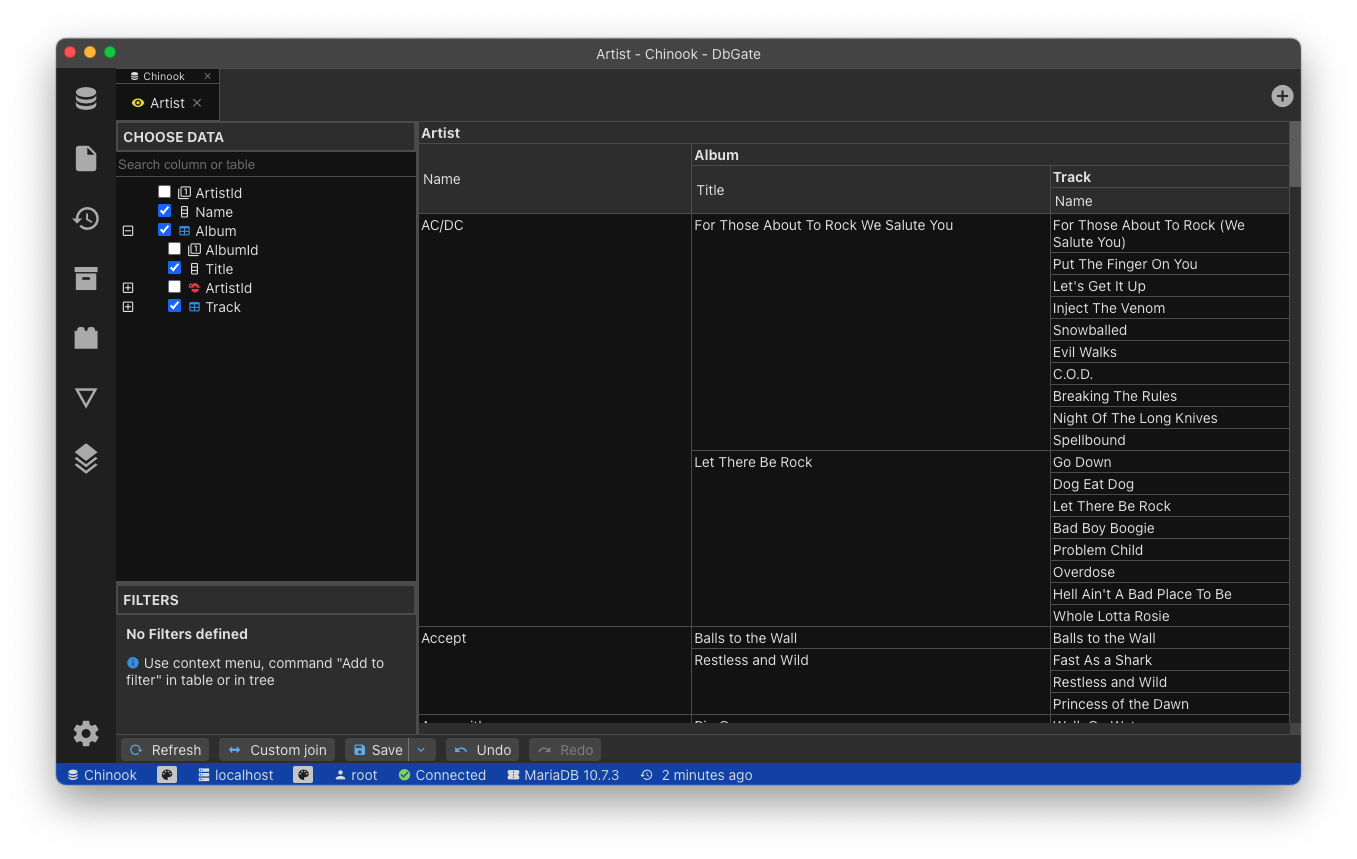
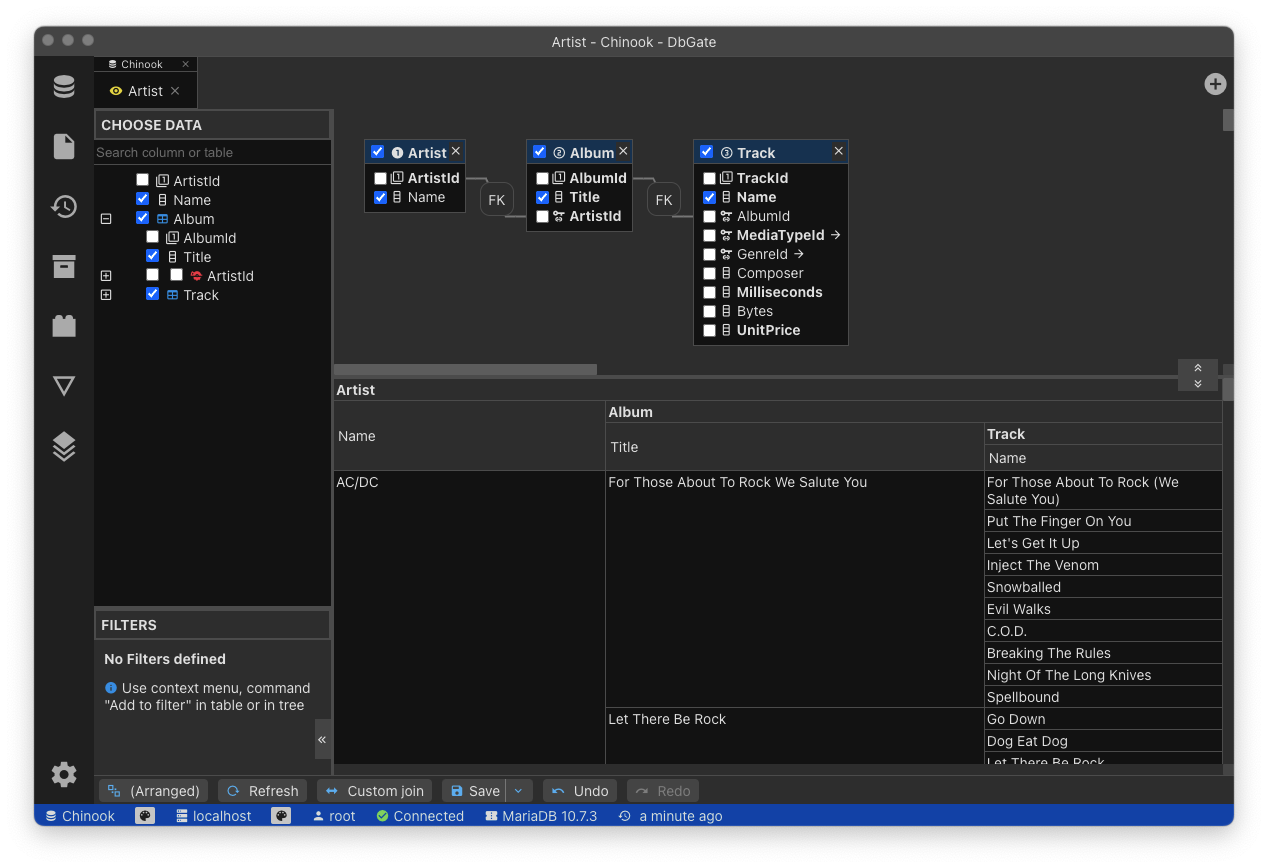
perspective updates

diff --git a/_docs/perspectives.md b/_docs/perspectives.md
@@ -7,7 +7,7 @@ hide_hero: true
 ---
 
 # Perspectives
-Perspective is readonly view of complex nested data. It resembles reports, but perspectives are created simply by adding data to view, there is nothing like complex report designer.
+Perspective is readonly view of complex nested data. It resembles reports, but perspectives are created simply by adding data to view. You could use perspective desigher, which allows you to join data following other relations than foreign keys.
 
 Perspectives can easily join data together, and show groups.
 
@@ -36,6 +36,10 @@ As you could see, there are lot of Genre rows without aby track matching search 
 <img src='/assets/docs/parentrows2.png' />
 
 # Define custom joins
-Perspectives works very well with foreign keys. But also when you have DB without foreign keys, you could use this feature. It is possible to define custom join with any condition. You could even define custom join to other database (which could be on different DB server, even with different underlying database engine). 
+Perspectives works very well with foreign keys. But also when you have DB without foreign keys, you could use this feature. It is possible to define custom join with any condition. You could even define custom join to other database (which could be on different DB server, even with different underlying database engine).
 
 <img src='/assets/docs/customjoin.png' />
+
+You could also drag &amp; drop columns to create join relation.
+
+<img src='/assets/docs/customjoin2.png' />

diff --git a/_posts/2022-08-08-5.1.1.md b/_posts/2022-08-08-5.1.1.md
@@ -1,0 +1,28 @@
+---
+layout: post
+title: Version 5.1.1 - Perspective designer
+categories: development
+date:   2022-09-05 16:00:00
+---
+
+Although 5.1.1 is marked as minor version release, it brings very important change - perspectives (added in last version) have now a new designer. It look similar like query designer, but it has not query designer constraints - as the result is not single flat query, but hiearchical perspective view.
+
+The designer is nice, when using perspectives on database with foreign keys. But it becomes a must, when using on DB without foreign keys, or when using perspective between different databases.
+
+Please use [docs](https://dbgate.org/docs/perspectives.html) for further details.
+
+<img src='/assets/screenshots/perspective1.png' />
+
+## Support us
+DbGate is an MIT-licensed open-source project. Great thanks to sponsors. Please, consider [supporting us](https://github.com/sponsors/dbgate)!
+
+## All changes from 5.1.1 release
+- ADDED: Perspective designer
+- FIXED: NULL,NOT NULL filter datatime columns #356
+- FIXED: Recognize computed columns on SQL server #354
+- ADDED: Hotkey for clear filter #352
+- FIXED: Change column type on Postgres #350
+- ADDED: Ability to open qdesign file #349
+- ADDED: Custom editor font size #345
+- ADDED: Ability to open perspective files
+

diff --git a/_posts/2022-08-08-5.1.0.md b/_posts/2022-08-08-5.1.0.md
@@ -14,7 +14,7 @@ Please use [docs](https://dbgate.org/docs/perspectives.html) for further details
 <img src='/assets/screenshots/perspective1.png' />
 
 ## Support us
-Nest is an MIT-licensed open-source project. Great thanks to sponsors. Please, consider [supporting us](https://github.com/sponsors/dbgate)!
+DbGate is an MIT-licensed open-source project. Great thanks to sponsors. Please, consider [supporting us](https://github.com/sponsors/dbgate)!
 
 ## Changelog after 5.0.0 version
 ### 5.1.0

diff --git a/_posts/2022-05-23-5.0.0.md b/_posts/2022-05-23-5.0.0.md
@@ -15,7 +15,7 @@ Also finally I have solved issue with SQLite on Mac M1, sow SQLite is now suppor
 ![screenshot](/assets/screenshots/connection.png)
 
 ## Support us
-Nest is an MIT-licensed open-source project. Great thanks to sponsors. Please, consider [supporting us](https://github.com/sponsors/dbgate)!
+DbGate is an MIT-licensed open-source project. Great thanks to sponsors. Please, consider [supporting us](https://github.com/sponsors/dbgate)!
 
 ## Changelog after 4.8.0 version
 ### 5.0.0
